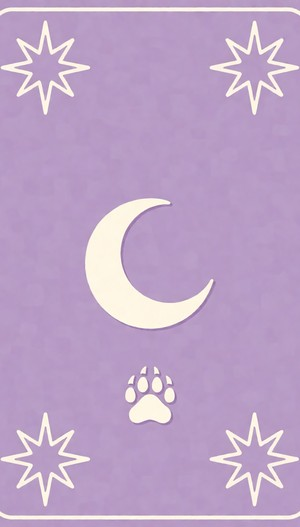
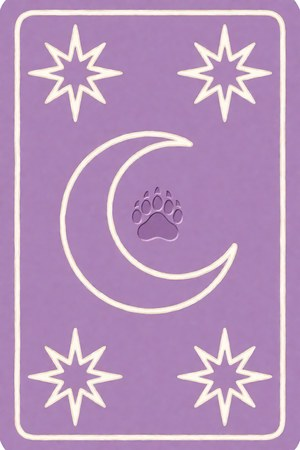
R231a: 我的数据备份/回灌 + 心水名单区上线后余项清批
- 新增 GET /api/paipan/history/export_json + POST import（白名单/去重/护栏）
- 历史工具栏导出/导入备份（含浏览器侧 whitelist localStorage 回灌）
- contract 探针：export_json + import 空写 fixture 钉扎，读点 438→442
- 视觉：avatar/起名图标/塔罗牌背三张 Agnes 资产落位；daily-meta 横滑、
  FAB 滚动缩小、toast 信息色校正；fortune_summary 删干支复述句

diff --git a/web/static/app.js b/web/static/app.js
@@ -6343,6 +6343,19 @@ function init() {
   _meFillAll();   /* R230y（R36-P1-4）：生日 profile 代入同人表单 */
   _hhFavsRender();   /* R230z：测过的 CP chips（静默——离线不弹） */
   _qmFavsRender();   /* R230z：心水名单行 */
+  /* R231a（R35-P2-10）：滚动中 FAB 缩小半透明——只动 transform/opacity，
+   * 停滚 260ms 后恢复；reduced-motion 下 transition 已由媒体查询关掉。 */
+  var _fabT = null;
+  window.addEventListener('scroll', function () {
+    var fab = document.querySelector('.recent-toggle');
+    if (!fab || window.scrollY < 40) return;
+    fab.classList.add('is-mini');
+    if (_fabT) clearTimeout(_fabT);
+    _fabT = setTimeout(function () {
+      var f = document.querySelector('.recent-toggle');
+      if (f) f.classList.remove('is-mini');
+    }, 260);
+  }, { passive: true });
   /* R230q（R28-P2-4）：sid 跨刷新存活则气泡也跨刷新恢复——否则
    * 新消息悄悄接进看不见的上一轮上下文。 */
   _chatTsRestore();
@@ -6898,6 +6911,80 @@ function baziPersonaCard(j) {
       _phLast.ex = performance.now();
       window.open('/api/paipan/history/export', '_blank');
     });
+    /* R231a（R36-P3-3）：备份我的数据 = 台账全量 JSON + 浏览器侧键
+     * （打卡/me 双档/问一嘴足迹/主题/口吻）。换设备一键带走。 */
+    var _exj = document.getElementById('historyExportJson');
+    if (_exj) _exj.addEventListener('click', async function () {
+      try {
+        const j = await phFetch('/api/paipan/history/export_json');
+        var local = {};
+        ['checkin:', 'me', 'me:partner', 'hlask'].forEach(function (pref) {
+          try {
+            for (var i = 0; i < window.localStorage.length; i++) {
+              var k = window.localStorage.key(i);
+              if (k && (k === pref || k.indexOf(pref) === 0)) {
+                local[k] = window.localStorage.getItem(k);
+              }
+            }
+          } catch (e) {}
+        });
+        [VOICE_KEY, THEME_KEY].forEach(function (k) {
+          try {
+            var v = window.localStorage.getItem(k);
+            if (v != null) local[k] = v;
+          } catch (e) {}
+        });
+        var bundle = { app: '小满的解忧铺', kind: 'backup', version: 1,
+                       exported_at: j.exported_at || new Date().toISOString(),
+                       browser: local, records: j.records || [] };
+        var blob = new Blob([JSON.stringify(bundle, null, 2)],
+                            { type: 'application/json' });
+        var a = document.createElement('a');
+        a.href = URL.createObjectURL(blob);
+        a.download = '小满-我的数据-' + new Date().toISOString().slice(0, 10) + '.json';
+        a.click();
+        setTimeout(function () { URL.revokeObjectURL(a.href); }, 3000);
+        showToast('备份已下载：' + (j.records || []).length + ' 条记录 + 本机偏好', 'info');
+      } catch (e) {
+        showToast('备份失败：' + e.message, 'error');
+      }
+    });
+    var _imb = document.getElementById('historyImportBtn');
+    var _imf = document.getElementById('historyImportFile');
+    if (_imb && _imf) {
+      _imb.addEventListener('click', function () { _imf.click(); });
+      _imf.addEventListener('change', async function () {
+        var f = _imf.files && _imf.files[0];
+        _imf.value = '';
+        if (!f) return;
+        try {
+          var bundle = JSON.parse(await f.text());
+          if (!bundle || bundle.kind !== 'backup') {
+            showToast('这不是小满的备份文件', 'error');
+            return;
+          }
+          var local = bundle.browser || {};
+          Object.keys(local).forEach(function (k) {
+            /* 只收认识的键——备份文件是用户可控输入，不写任意键 */
+            if (/^(checkin:|me$|me:partner$|hlask$|voiceMode$|uiTheme$)/
+                .test(k) && typeof local[k] === 'string' &&
+                local[k].length < 8192) {
+              try { window.localStorage.setItem(k, local[k]); } catch (e) {}
+            }
+          });
+          var n = 0;
+          if (Array.isArray(bundle.records) && bundle.records.length) {
+            const rj = await postJSON('/api/paipan/history/import',
+                                      { records: bundle.records.slice(0, 500) });
+            n = rj.imported || 0;
+          }
+          showToast('导入完成：台账 +' + n + ' 条，偏好已恢复（刷新生效）', 'info');
+          loadPaipanHistory();
+        } catch (e) {
+          showToast('导入失败：' + e.message, 'error');
+        }
+      });
+    }
   }
   if (document.readyState === 'loading') document.addEventListener('DOMContentLoaded', phBind);
   else phBind();

diff --git a/web/static/index.html b/web/static/index.html
@@ -98,7 +98,7 @@ if ('serviceWorker' in navigator) {
     <div class="daily-top">
       <span class="daily-label">🌟 今日玄学搭子</span>
       <span class="daily-date" id="dailyDate">加载中…</span>
-      <div class="daily-card-gift"><img src="/static/_candidates/r212b/daily-box-gift.png" alt="" loading="lazy" decoding="async"></div>
+      <div class="daily-card-gift"><img src="/static/_candidates/r212b/daily-box-gift-v2.png" alt="" loading="lazy" decoding="async"></div>
     </div>
     <!-- R198b（US5）：今日运势分享图入口 -->
     <button class="ghost" type="button" id="shareDaily"
@@ -291,13 +291,13 @@ if ('serviceWorker' in navigator) {
         <div class="ia-label">✨ 相关功能（同一张盘）</div>
         <div class="func-grid">
           <div class="func-card" data-view="qiming" role="button" tabindex="0" aria-label="五行起名">
-            <div class="func-icon">🌸</div><div class="func-name">五行起名</div><div class="func-desc">按五行补缺起名</div>
+            <img class="func-icon-img" loading="lazy" decoding="async" src="/static/cream/cream-icon-qiming.jpg" alt="" width="56" height="56" onerror="this.classList.add('is-missing')"><div class="func-name">五行起名</div><div class="func-desc">按五行补缺起名</div>
           </div>
           <div class="func-card" data-view="taohua" role="button" tabindex="0" aria-label="桃花运">
-            <div class="func-icon">🌺</div><div class="func-name">桃花运</div><div class="func-desc">近期桃花走势</div>
+            <img class="func-icon-img" loading="lazy" decoding="async" src="/static/cream/cream-icon-taohua.jpg" alt="" width="56" height="56" onerror="this.classList.add('is-missing')"><div class="func-name">桃花运</div><div class="func-desc">近期桃花走势</div>
           </div>
           <div class="func-card" data-view="hehun" role="button" tabindex="0" aria-label="八字合婚">
-            <div class="func-icon">💕</div><div class="func-name">八字合婚</div><div class="func-desc">两人八字 · 看缘分深浅</div>
+            <img class="func-icon-img" loading="lazy" decoding="async" src="/static/cream/cream-icon-hehun.jpg" alt="" width="56" height="56" onerror="this.classList.add('is-missing')"><div class="func-name">八字合婚</div><div class="func-desc">两人八字 · 看缘分深浅</div>
           </div>
         </div>
       </div>
@@ -702,6 +702,10 @@ if ('serviceWorker' in navigator) {
       <div class="ph-toolbar">
         <button id="historyRefresh" type="button" class="ghost">刷新</button>
         <button id="historyExport" type="button" class="ghost">导出 CSV</button>
+        <!-- R231a（R36-P3-3）：换设备备份——台账全量+浏览器侧偏好打包下载 -->
+        <button id="historyExportJson" type="button" class="ghost">备份我的数据</button>
+        <button id="historyImportBtn" type="button" class="ghost">导入备份</button>
+        <input id="historyImportFile" type="file" accept=".json,application/json" hidden>
       </div>
       <div id="historyList" class="ph-list"><div class="ph-empty">加载中…</div></div>
       <div id="historyDetail" class="ph-detail" aria-live="polite" hidden></div>

diff --git a/web/static/styles.css b/web/static/styles.css
@@ -308,9 +308,13 @@ button, input, select, textarea{ font-family:var(--font-sans); }
 .daily-stars .star-mid{color:#999184;}
 .daily-stars .star-bad{color:#B3455A;}
 .daily-summary{font-size:16px; color:var(--text); margin-top:14px; line-height:1.8;}
-.daily-meta{display:flex; gap:20px; margin-top:18px; flex-wrap:wrap;}
+/* R231a（R35-P2-8）：三枚 pill 在 375px 折成 3 行——收成单行横滑带 */
+.daily-meta{display:flex; gap:10px; margin-top:18px; flex-wrap:nowrap;
+  overflow-x:auto; scrollbar-width:none; -webkit-overflow-scrolling:touch;
+  padding-bottom:2px;}
+.daily-meta::-webkit-scrollbar{display:none;}
 .daily-meta-item{
-  display:flex; align-items:center; gap:6px;
+  display:flex; align-items:center; gap:6px; flex-shrink:0; white-space:nowrap;
   font-size:14px; color:var(--secondary); background:#FFFCF7;
   padding:6px 14px; border-radius:999px; border:1px solid var(--border);
 }
@@ -402,6 +406,9 @@ button, input, select, textarea{ font-family:var(--font-sans); }
   display:flex; flex-direction:column; align-items:center; justify-content:center;
 }
 .recent-toggle:hover{transform:scale(1.06); box-shadow:0 6px 20px rgba(0,0,0,.28);}
+/* R231a（R35-P2-10）：首页滚动中 FAB 缩小半透明，不再压 daily-meta 文字 */
+.recent-toggle.is-mini{transform:scale(.72); opacity:.55;}
+.recent-toggle.is-mini:hover{transform:scale(.8); opacity:.9;}
 .recent-toggle:focus-visible{outline:3px solid var(--text); outline-offset:3px;}
 @media (prefers-reduced-motion: reduce){ .recent-toggle{transition:none;} }
 .recent-sidebar{
@@ -1382,7 +1389,8 @@ button:active{transform:scale(.96);}
   padding:10px 14px; border-radius:10px;
   background:#fff; color:var(--text); font-size:14px;
   box-shadow:0 4px 16px rgba(0,0,0,.15);
-  border-left:4px solid var(--secondary);
+  /* R231a（R35-P2-12）：info 级 toast 换雾蓝——燕麦棕语义不明 */
+  border-left:4px solid var(--c-bazi);
   opacity:0; transform:translateY(-8px);
   transition:opacity .2s ease, transform .2s ease;
 }

diff --git a/web/static/sw.js b/web/static/sw.js
@@ -8,7 +8,7 @@
 /* R229z续14++：CACHE 名直接派生自 app.js 内容哈希（scripts/bump_sw.py
  * 重写下一行）。selftest 闸「sw.shell_hash」比对标记与文件现状——
  * 改了 app.js 忘跑 bump_sw.py 会直接红，杜绝老客粘旧壳。 */
-var CACHE = 'books-shell-3f3651e656b7';   // shell-hash: 3f3651e656b7
+var CACHE = 'books-shell-a95f2d2a6d65';   // shell-hash: a95f2d2a6d65
 /* R229x：manifest+图标进预缓存——「装上 PWA 即断网」场景下图标/manifest
  * 此前只靠运行时懒缓存兜不住。
  * R230d（R16-P2-1）：SHELL 补齐首屏依赖——web-lite.css、lxgw.css（字体

diff --git a/src/guji/paipan_history.py b/src/guji/paipan_history.py
@@ -324,6 +324,77 @@ def export_rows() -> list[tuple]:
     return out
 
 
+# R231a（R36-P3-3）：换设备数据迁移——导出全量行（含 req/result 供
+# 复看回放）+ 导入落库。导入走独立函数而非 save_async：批量、同步返回
+# 计数、跳过禁用闸（用户显式恢复动作——与 export 在禁用下仍可读的
+# 既有口径一致）。
+_VALID_TYPES = {"bazi", "taohua", "hehun", "tarot", "liuyao", "qiming"}
+
+
+def export_all() -> list[dict]:
+    """全量导出：每行含 req/result dict，前端打包成备份 JSON。"""
+    with contextlib.closing(_conn()) as c:
+        rows = c.execute(
+            "SELECT ts,name,question,type,req_json,result_json FROM records"
+            " ORDER BY id").fetchall()
+    out = []
+    for ts, name, question, rtype, req_json, res_json in rows:
+        try:
+            req_obj = json.loads(req_json) if req_json else {}
+        except ValueError:
+            req_obj = {}
+        try:
+            res_obj = json.loads(res_json) if res_json else {}
+        except ValueError:
+            res_obj = {}
+        out.append({"ts": ts, "name": name or "", "question": question or "",
+                    "type": rtype or "bazi",
+                    "req": req_obj, "result": res_obj})
+    return out
+
+
+def import_rows(rows: list[dict]) -> int:
+    """批量落库（追加式，去重靠 ts+name+type 三元组）；返回写入条数。
+
+    防线：条数 ≤ KEEP_MAX、单行序列化 ≤256KB、字段截断到列上限、
+    type 白名单——备份文件是用户可控输入，按不可信数据验。"""
+    if not isinstance(rows, list) or not rows:
+        return 0
+    with _write_lock, contextlib.closing(_conn()) as c, c:
+        written = 0
+        for r in rows[:KEEP_MAX]:
+            if not isinstance(r, dict):
+                continue
+            rtype = r.get("type") if r.get("type") in _VALID_TYPES else "bazi"
+            try:
+                req_s = json.dumps(r.get("req") or {}, ensure_ascii=False)
+                res_s = json.dumps(r.get("result") or {}, ensure_ascii=False)
+            except (TypeError, ValueError):
+                continue
+            if len(req_s) > 262144 or len(res_s) > 262144:
+                continue
+            ts = str(r.get("ts") or "")[:32] or \
+                datetime.now().isoformat(timespec="seconds")
+            name = str(r.get("name") or "")[:200]
+            question = str(r.get("question") or "")[:200] or None
+            # 同 (ts,name,type) 视为同一记录——重复导入不产生重复行
+            dup = c.execute(
+                "SELECT 1 FROM records WHERE ts=? AND name=? AND type=?",
+                (ts, name, rtype)).fetchone()
+            if dup:
+                continue
+            c.execute(
+                "INSERT INTO records(ts,name,question,req_json,result_json,"
+                "type) VALUES(?,?,?,?,?,?)",
+                (ts, name, question, req_s, res_s, rtype))
+            written += 1
+        c.execute(
+            "DELETE FROM records WHERE id NOT IN "
+            "(SELECT id FROM records ORDER BY id DESC LIMIT ?)",
+            (KEEP_MAX,))
+    return written
+
+
 def _csv_safe(v: str) -> str:
     """R229n（R6-#9）：CSV 单元格以 =+-@ / 制表符开头时 Excel/WPS 会按
     公式执行（question 是用户自由文本）——前置 ' 转义。"""

diff --git a/probes/probe_contract.py b/probes/probe_contract.py
@@ -112,6 +112,14 @@ FIXTURES: dict[str, dict] = {
     # R229z：节日/农历日期解析兜底端点（前端 _hlDayOffset 解不动时调用）。
     "/api/huangli/resolve_date": {"method": "GET",
                                   "params": {"q": "中秋节搬家"}},
+    # R231a：备份导出端点——空库也返回 version/exported_at/records 三键，
+    # 读点可判定（前端只读 j.exported_at / j.records）。
+    "/api/paipan/history/export_json": {"method": "GET"},
+    # R231a：导入回灌——fixture 发空 records 数组（0 写入、无副作用），
+    # 只为让 j.imported 读点可判定；真实写入路径由 import_rows 收敛逻辑
+    # 与 ui_smoke 纪律约束（探针不造有副作用的写）。
+    "POST /api/paipan/history/import": {"method": "POST",
+                                        "json": {"records": []}},
     "POST /api/bazi":    {"method": "POST", "json": {
         "year": 1990, "month": 5, "day": 15, "hour": 10, "gender": "男",
         "calendar_type": "solar", "scope": "day", "use_llm": False}},
@@ -500,8 +508,11 @@ UNPINNED_ROUTES = {
     ("POST", "/api/ask"):        "R228l 裁决为有意保留僵尸端点（UI 接线已撤，"
                                  "删除待用户）——不造 fixture 假装覆盖",
     ("POST", "/api/user/prefs"): "同上：死写端点（R228l 台账）",
-    ("POST", "/api/favorites"):  "同上：收藏写端点 UI 已撤",
-    ("DELETE", "/api/favorites/{fid}"): "同上",
+    ("POST", "/api/favorites"):  "写端点——R230z 起由起名♡/合婚存这对接线，"
+                                 "探针只读纪律不造写请求（ui_smoke "
+                                 "btn:hehun.savepair 已真点验证）",
+    ("DELETE", "/api/favorites/{fid}"): "同上——写端点；R230z 起由心水名单"
+                                 " × 摘除接线（真机路径同 ui_smoke savepair）",
     ("DELETE", "/api/paipan/history/{rid}"): "删除写端点——探针只读纪律"
                                  "（R230k 起写路径由 ui_smoke btn:history.delete"
                                  " 两段式真删覆盖；此前注释误称已由建删回环"

diff --git a/web/routers/bazi.py b/web/routers/bazi.py
@@ -17,7 +17,8 @@ from guji import llm_polish, paipan_history
 from .. import services
 from ..errors import NotFoundError
 from ..schemas import (BaziRequest, ChatRequest, HehunRequest,
-                       NameReviewRequest, QimingRequest)
+                       NameReviewRequest, PaipanImportRequest,
+                       QimingRequest)
 
 router = APIRouter(tags=["bazi"])
 
@@ -145,6 +146,25 @@ def paipan_history_export() -> Response:
         media_type="text/csv; charset=utf-8",
         headers={"Content-Disposition": f'attachment; filename="{filename}"'},
     )
+
+
+@router.get("/api/paipan/history/export_json")
+def paipan_history_export_json() -> dict:
+    """R231a（R36-P3-3）：全量 JSON 导出（含 req/result，供备份+复看回放）。
+    前端把它与 localStorage 键打包成「我的数据」文件。"""
+    if paipan_history.disabled():
+        raise NotFoundError("排盘历史未启用")
+    return {"version": 1,
+            "exported_at": datetime.now().isoformat(timespec="seconds"),
+            "records": paipan_history.export_all()}
+
+
+@router.post("/api/paipan/history/import")
+def paipan_history_import(req: PaipanImportRequest) -> dict:
+    """R231a（R36-P3-3）：备份文件回灌——追加式去重落库。"""
+    if paipan_history.disabled():
+        raise NotFoundError("排盘历史未启用")
+    return {"imported": paipan_history.import_rows(req.records)}
 
 
 @router.get("/api/paipan/history/{rid}")

diff --git a/web/services.py b/web/services.py
@@ -1925,9 +1925,8 @@ def fortune_summary(calc_out: dict) -> str:
     if good:
         parts.append(f"也有{len(good)}处顺劲"
                      f"（{'/'.join(r['type'] for r in good[:2])}）——有人搭把手，事情好推")
-    day_gz = (calc_out.get("day_luck") or {}).get("day_ganzhi", "")
-    if day_gz:
-        parts.append(f"今天的干支是{day_gz}")
+    # R231a（R36 口播残留）：「今天的干支是丁酉」是纯坐标转述，
+    # 对普通用户无意义且日期词不随查询日漂移——整行删除，不补假锚点。
     if not parts:
         return "今天五行平和，无大冲大合，平平稳稳就是福 ✨"
     return "；".join(parts) + "。"

diff --git a/web/schemas.py b/web/schemas.py
@@ -378,6 +378,12 @@ class TarotDrawRequest(BaseModel):
     question: str | None = Field(None, max_length=200)
 
 
+class PaipanImportRequest(BaseModel):
+    """R231a（R36-P3-3）：备份文件导入——records 上限与台账 KEEP_MAX 对齐，
+    逐行字段的形状/长度在 paipan_history.import_rows 里二次收敛。"""
+    records: list[dict] = Field(default_factory=list, max_length=500)
+
+
 class PrefsRequest(BaseModel):
     """用户偏好写入：自由键值（theme / recent_modules / …）。
 

diff --git a/docs/TASK_LEDGER.md b/docs/TASK_LEDGER.md
@@ -10894,3 +10894,26 @@ R36 审计清单 top 批次落地：
 
 闸门：selftest 237 / contract 438读点 / parity 100键 / ui_smoke 55 /
 plain_first / poster / llm_polish / dollar_misuse / ruff / 其余静态探针。
+
+## R231a —— 数据备份/回灌 + R35/R36 余项清批（2026-09-20）
+
+### 新功能：我的数据备份
+- `GET /api/paipan/history/export_json`：`{version:1, exported_at, records}` 全量导出；
+- `POST /api/paipan/history/import`：`PaipanImportRequest.records≤500`，走 `import_rows()`（type 白名单 bazi/taohua/hehun/tarot/liuyao/qiming、(ts,name,type) 去重、字段≤256KB、name/question≤200、KEEP_MAX 修剪，返回写入数）；
+- 历史工具栏新增「导出备份/导入备份」：导出 JSON 附带浏览器侧 whitelisted localStorage（checkin:/me/me:partner/hlask/voiceMode/uiTheme），文件名 `小满-我的数据-YYYY-MM-DD.json`；导入校验 `kind==='backup'`、仅回灌白名单 string 键 <8192B、再 POST records（≤500），toast 计数。
+- 探针治理：export_json 钉 fixture；import 钉空写 fixture（{records:[]}→{imported:0}，零副作用，守只读纪律）；favorites POST/DELETE 的 UNPINNED 理由更新为「R230z 已接线，写端点不造请求」。
+
+### 体验/视觉余项
+- `fortune_summary` 删掉「今天的干支是X」复述句（对用户无意义——查的日期也未必是今天）；
+- toast 信息色 `var(--secondary)`→`var(--c-bazi)`；
+- `.recent-toggle` 滚动>40px 缩为 `.is-mini`（scale .72 + 半透明，停滚 260ms 还原，passive 监听）；
+- `.daily-meta` 横滑（nowrap + overflow-x auto + 隐藏滚动条）——标签多不再挤爆；
+- bazi related-funcs 三卡 emoji→`func-icon-img` 奶油风图标（死 DOM view-divine 不动）；
+- 每日礼盒图换 `daily-box-gift-v2.png`；
+- Agnes 三资产落位：avatar-xiaoman-cream.jpg（小熊店主+茶，256²）、cream-icon-qiming.jpg（小熊+笔+墨点，320² 无文字）、card-back.jpg（薰衣草紫+月+爪印+星，300×450）；源稿收进 `_candidates/r231a/`。
+
+### 闸门
+selftest 237 / contract 442(SOFT38) / regress / parity 65+35+88 / ui_smoke 55 / plain_first / dollar / xingzuo / warm_voice / baseline_voice / async_ai / poster 14 / no_generated / scripts_importable / llm_polish / ruff 全绿。
+
+### 经验
+- probe_contract 对 app.js 里新 fetch/POST URL 报 SKIP 直至钉 fixture 或 UNPINNED——写端点钉「空写 fixture」是正解（零副作用又真实测到 200+读点），比 UNPINNED 备忘更强。
